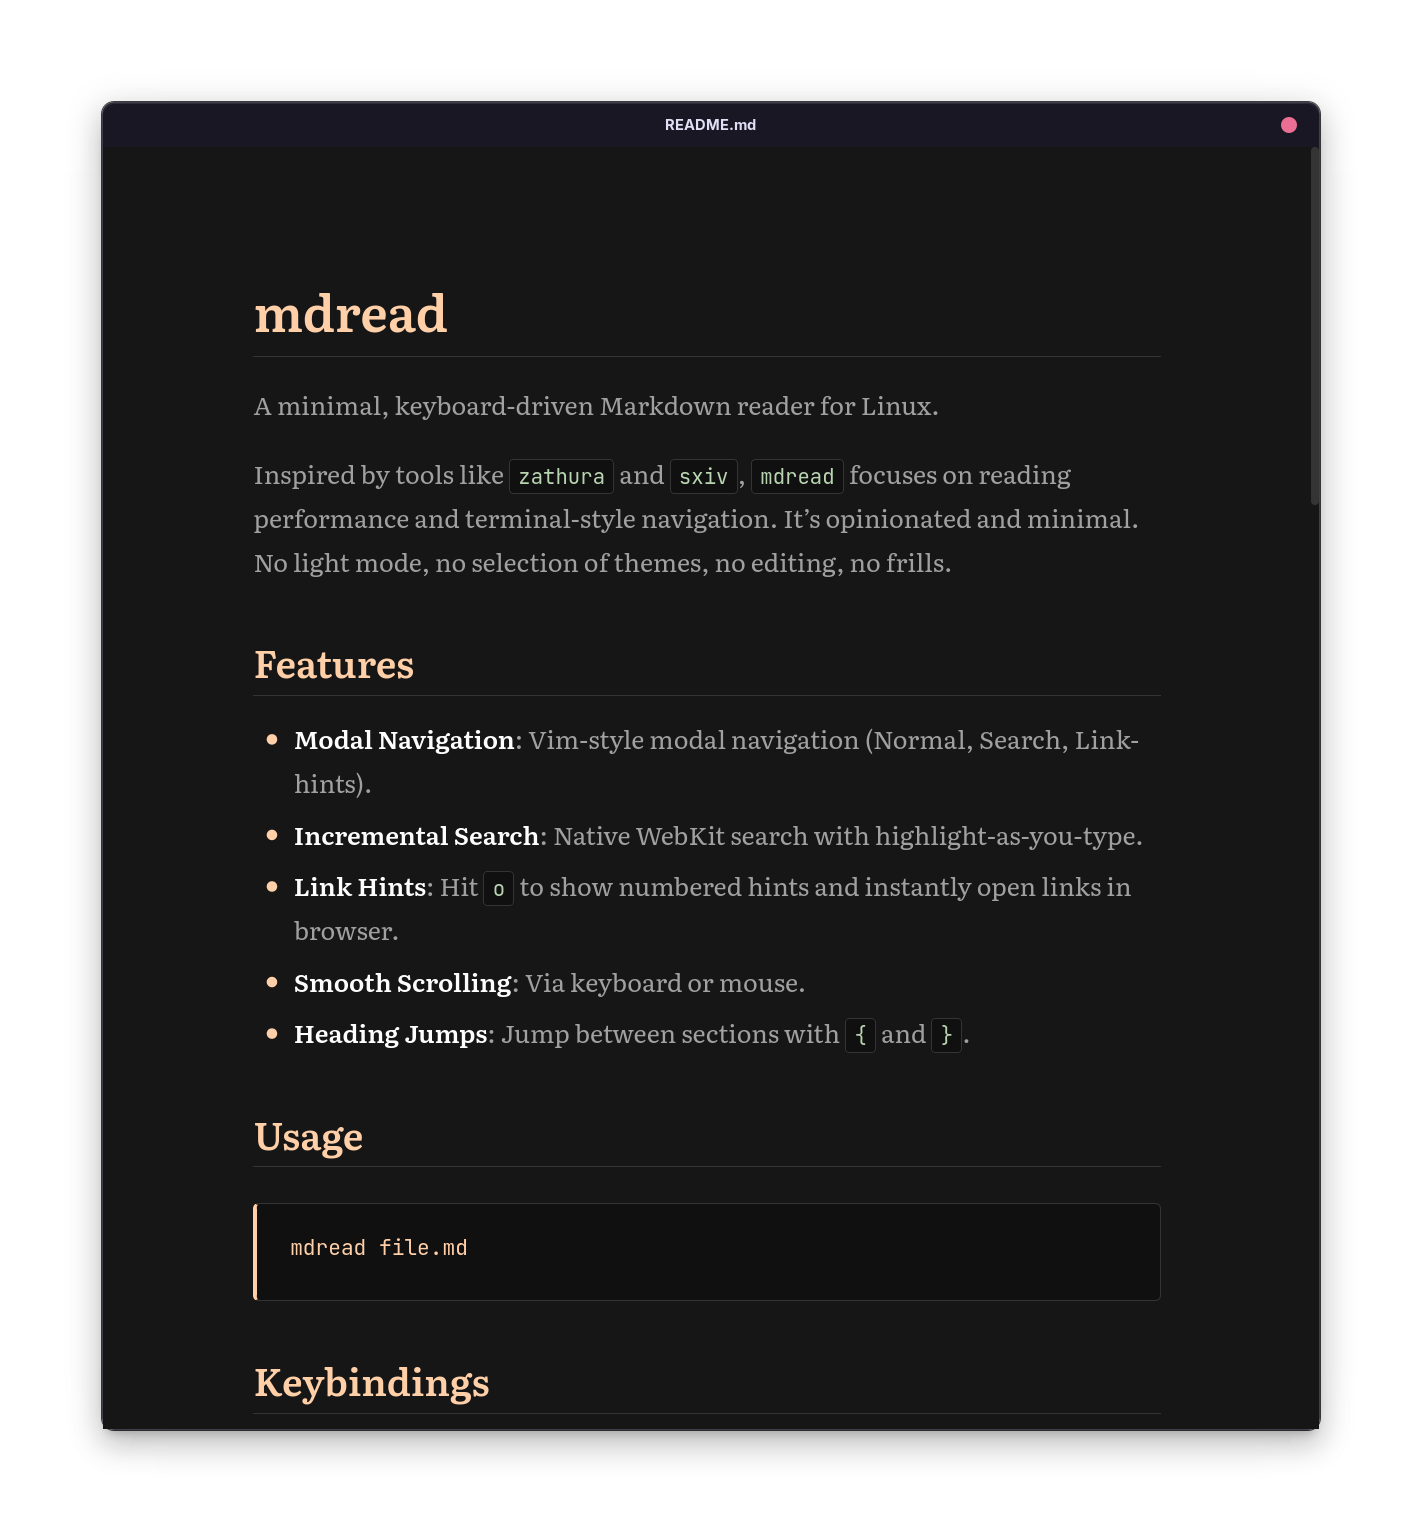
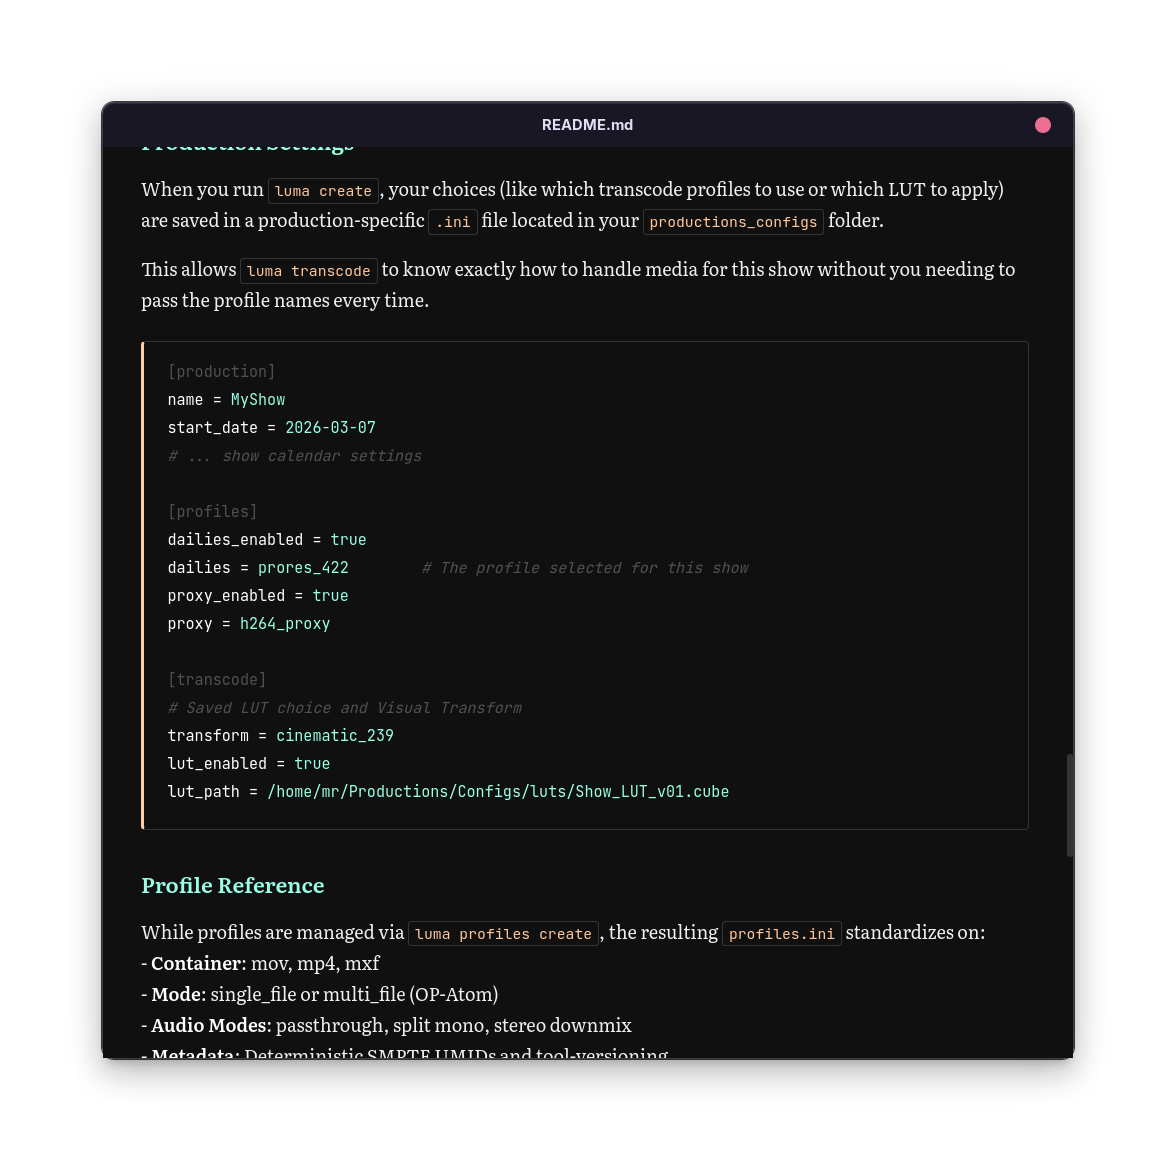
always adjust a little after fucking and shipping

diff --git a/src/mdread/main.py b/src/mdread/main.py
@@ -80,21 +80,20 @@ CSS = """
     --bg:        #101010;
     --surface:   #161616;
     --border:    #343434;
-    --text:      #A0A0A0;
-    --muted:     #65737E;
+    --text:      #efefef;
+    --muted:     #505050;
     --accent:    #FFCFA8;
     --accent2:   #99FFE4;
-    --code-bg:   #161616;
+    --code-bg:   #101010;
+    --code-fg:   white;
     --link:      #FFCFA8;
     --hr:        #232323;
     --quote-bar: #FFCFA8;
 
-    --orange: #FFC799;
-    --cyan: #99FFE4;
-        
+    --orange:    #FFC799;
+    --cyan:      #99FFE4;
+    --red:       #FF8080;
 }
-
-
 
 * { box-sizing: border-box; margin: 0; padding: 0; }
 
@@ -116,14 +115,14 @@ body {
 h1, h2, h3, h4, h5, h6 {
     font-family: 'Literata', Georgia, serif;
     font-weight: 600;
-    color: var(--accent);
     line-height: 1.3;
     margin: 2.2rem 0 0.8rem;
+    color: var(--orange)
 }
 h1 { font-size: 2rem;   border-bottom: 1px solid var(--border); padding-bottom: .5rem; }
 h2 { font-size: 1.5rem; border-bottom: 1px solid var(--border); padding-bottom: .3rem; }
-h3 { font-size: 1.2rem; color: var(--accent2); }
-h4 { font-size: 1.05rem; color: var(--accent2); }
+h3 { font-size: 1.2rem; color: var(--cyan); }
+h4 { font-size: 1.05rem; color: var(--red); }
 h5, h6 { font-size: 1rem; color: var(--muted); }
 
 p { margin: 1rem 0; }
@@ -162,7 +161,7 @@ pre code {
     color: white;
 }
 
-.highlight { background: var(--code-bg) !important; border-radius: 4px; color: var(--text); }
+.highlight { background: var(--code-bg) !important; border-radius: 4px; color: var(--code-fg); }
 .highlight .k, .highlight .kn, .highlight .kd, .highlight .kp, .highlight .kr, .highlight .ow, .highlight .ow { color: var(--muted); }
 .highlight .nf, .highlight .nc, .highlight .fm, .highlight .nb { color: var(--orange); }
 .highlight .kt, .highlight .nc, .highlight .no { color: var(--orange); }

diff --git a/README.md b/README.md
@@ -14,7 +14,7 @@ Inspired by tools like `zathura` and `sxiv`, `mdread` focuses on reading perform
 - **Smooth Scrolling**: Via keyboard or mouse.
 - **Heading Jumps**: Jump between sections with `{` and `}`.
 
-<img src="https://raw.githubusercontent.com/mikkelrask/mdread/dev/img/screenshot.png?raw=true" alt="mdread readme in mdread" style="margin: 0 auto; display: block;">
+<img src="img/screenshot.png?raw=true" alt="mdread readme in mdread" style="margin: 0 auto; display: block;">
 
 ## Usage
 
@@ -86,7 +86,7 @@ This will install mdread in your virtual environment. You can then just rerun `m
 
 ## Inspiration / Credits
 - The idea is inspired by [Mikkel Malmberg / @mikker](https://mikkelmalmberg.com/notes/01KPDNG8AM723KW4YJXRS890C1) and his exciting AI driven software adventures
-- Color scheme is based on **Vesper** by [Rauno Freiberg](https://rauno.me/) of Vercel
+- Color scheme is largely based on **Vesper** by [Rauno Freiberg](https://rauno.me/) of Vercel
 - Fonts used: **Literata** and **JetBrains Mono** from [Google Fonts](https://fonts.google.com/)
 
 <img src="src/mdread/mdread.webp" alt="mdread" width="200" height="200" style="margin: 0 auto; display: block;">
